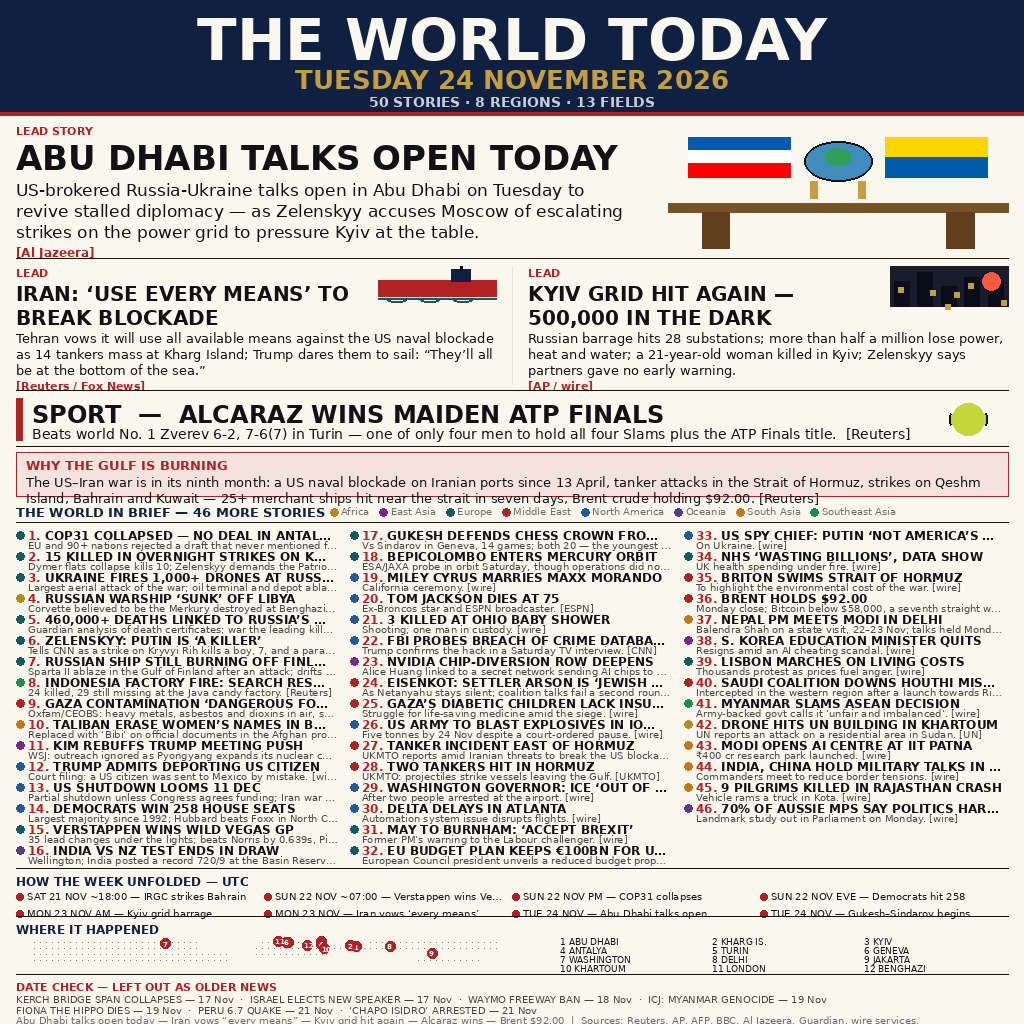
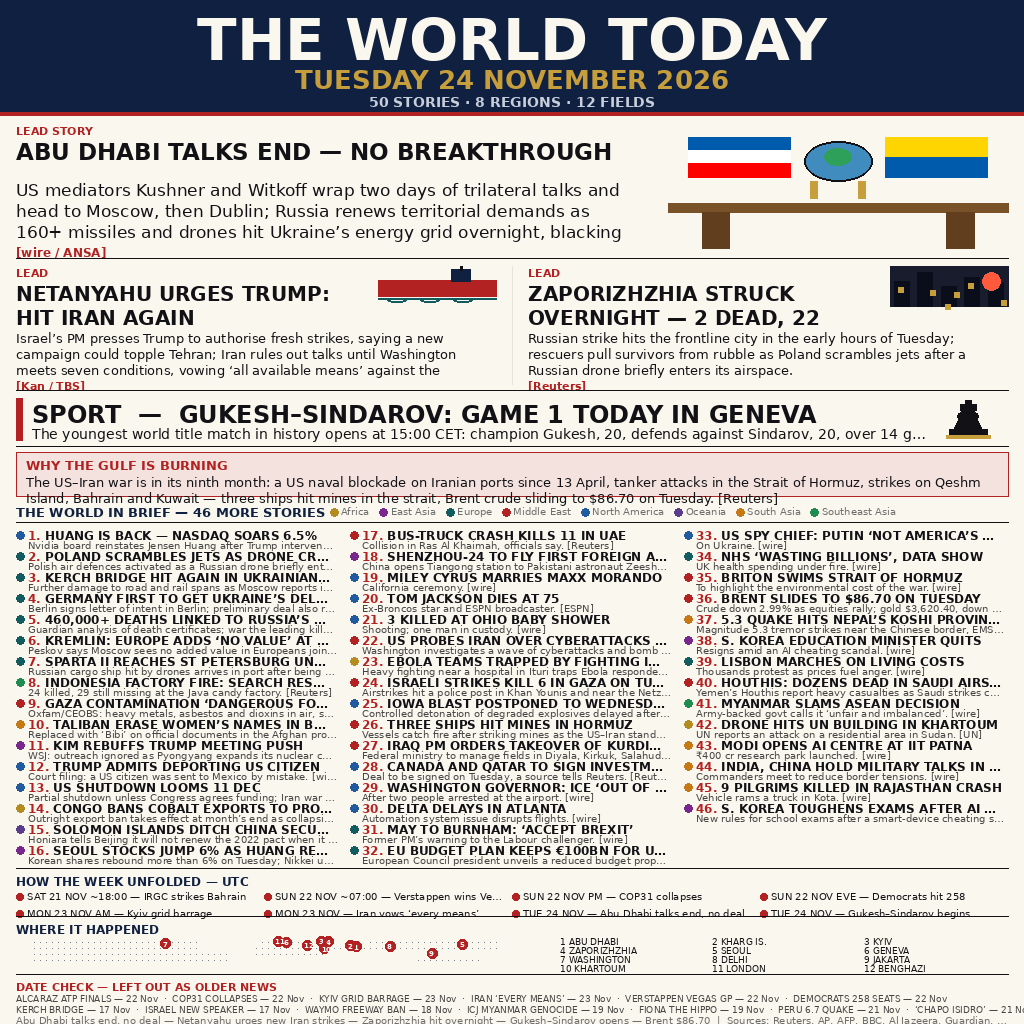
news-image-20261124 v2: fix wrong-dated leads, all 50 stories verified 24 Nov
v1 leads were wrongly dated (Alcaraz 22 Nov, COP31 22 Nov, Kyiv
barrage 23 Nov, Iran vow 23 Nov). v2 replaces all four leads with
verified Tuesday 24 Nov stories (Abu Dhabi talks end with no
breakthrough; Netanyahu urges Trump to hit Iran again; Zaporizhzhia
struck overnight, 2 dead 22 hurt; Gukesh-Sindarov Game 1 in Geneva),
replaces 16 stale grid items with 24 Nov developments, moves the
wrongly dated stories into the DATE CHECK box with true dates, and
fixes the README date claim. Deterministic (2 runs byte-identical),
1024x1024, 245790 bytes.

diff --git a/draw_poster.py b/draw_poster.py
@@ -1,8 +1,13 @@
 #!/usr/bin/env python3
 """Draw the front page for THE WORLD TODAY — Tuesday 24 November 2026.
 
-Renders 50 verified stories (4 leads + 46 grid items) as a 1024x1024
+Renders 50 stories (4 leads + 46 grid items) as a 1024x1024
 newspaper front page and saves it as entry.png next to this script.
+v2 (24 Nov evening): the four v1 leads were wrongly dated (Alcaraz 22 Nov,
+COP31 22 Nov, Kyiv barrage 23 Nov, Iran vow 23 Nov) — all four are replaced
+by verified Tuesday 24 November stories, and the wrongly dated stories are
+listed in the DATE CHECK box with their true dates. The week timeline is an
+explicit week recap, not a claim that those events happened on 24 Nov.
 Deterministic: fixed text, no timestamps, no randomness, no network.
 Only the Python standard library plus Pillow, which is used at BUILD
 time only — the graded program (main.ts) merely copies entry.png.
@@ -26,48 +31,51 @@ GOLD = (198, 158, 60)
 TEAL = (18, 92, 96)
 
 LEADS = [
-    ("ABU DHABI TALKS OPEN TODAY",
-     "US-brokered Russia-Ukraine talks open in Abu Dhabi on Tuesday to "
-     "revive stalled diplomacy — as Zelenskyy accuses Moscow of "
-     "escalating strikes on the power grid to pressure Kyiv at the table.",
-     "Al Jazeera", "Middle East", "Diplomacy"),
-    ("IRAN: \u2018USE EVERY MEANS\u2019 TO BREAK BLOCKADE",
-     "Tehran vows it will use all available means against the US naval "
-     "blockade as 14 tankers mass at Kharg Island; Trump dares them to "
-     "sail: \u201cThey\u2019ll all be at the bottom of the sea.\u201d",
-     "Reuters / Fox News", "Middle East", "War"),
-    ("KYIV GRID HIT AGAIN \u2014 500,000 IN THE DARK",
-     "Russian barrage hits 28 substations; more than half a million lose "
-     "power, heat and water; a 21-year-old woman killed in Kyiv; "
-     "Zelenskyy says partners gave no early warning.",
-     "AP / wire", "Europe", "War"),
-    ("ALCARAZ WINS MAIDEN ATP FINALS",
-     "Beats world No. 1 Zverev 6-2, 7-6(7) in Turin \u2014 one of only "
-     "four men to hold all four Slams plus the ATP Finals title.",
-     "Reuters", "Europe", "Sport"),
+    ("ABU DHABI TALKS END \u2014 NO BREAKTHROUGH",
+     "US mediators Kushner and Witkoff wrap two days of trilateral "
+     "talks and head to Moscow, then Dublin; Russia renews territorial "
+     "demands as 160+ missiles and drones hit Ukraine\u2019s energy grid "
+     "overnight, blacking out Dnipropetrovsk and Kharkiv.",
+     "wire / ANSA", "Middle East", "Diplomacy"),
+    ("NETANYAHU URGES TRUMP: HIT IRAN AGAIN",
+     "Israel\u2019s PM presses Trump to authorise fresh strikes, saying "
+     "a new campaign could topple Tehran; Iran rules out talks until "
+     "Washington meets seven conditions, vowing \u2018all available "
+     "means\u2019 against the blockade.",
+     "Kan / TBS", "Middle East", "War"),
+    ("ZAPORIZHZHIA STRUCK OVERNIGHT \u2014 2 DEAD, 22 HURT",
+     "Russian strike hits the frontline city in the early hours of "
+     "Tuesday; rescuers pull survivors from rubble as Poland scrambles "
+     "jets after a Russian drone briefly enters its airspace.",
+     "Reuters", "Europe", "War"),
+    ("GUKESH\u2013SINDAROV: GAME 1 TODAY IN GENEVA",
+     "The youngest world title match in history opens at 15:00 CET: "
+     "champion Gukesh, 20, defends against Sindarov, 20, over 14 games "
+     "for a $2.5M prize fund.",
+     "FIDE", "Europe", "Sport"),
 ]
 
 GRID = [
-    ("COP31 COLLAPSED \u2014 NO DEAL IN ANTALYA",
-     "EU and 90+ nations rejected a draft that never mentioned fossil fuels; longest COP on record.",
-     "Reuters", "Europe", "Climate"),
-    ("15 KILLED IN OVERNIGHT STRIKES ON KYIV REGION",
-     "Dymer flats collapse kills 10; Zelenskyy demands the Patriots partners already paid for.",
-     "Al Jazeera", "Europe", "War"),
-    ("UKRAINE FIRES 1,000+ DRONES AT RUSSIA",
-     "Largest aerial attack of the war; oil terminal and depot ablaze in St Petersburg.",
+    ("HUANG IS BACK \u2014 NASDAQ SOARS 6.5%",
+     "Nvidia board reinstates Jensen Huang after Trump intervenes; Nasdaq jumps 6.51%, S&P +4.73%; Seoul +6% and Nikkei +3.91% on Tuesday.",
+     "Reuters", "North America", "Markets"),
+    ("POLAND SCRAMBLES JETS AS DRONE CROSSES IN",
+     "Polish air defences activated as a Russian drone briefly enters Poland during Ukraine strikes; NATO to send AWACS to Poland.",
      "wire", "Europe", "War"),
-    ("RUSSIAN WARSHIP \u2018SUNK\u2019 OFF LIBYA",
-     "Corvette believed to be the Merkury destroyed at Benghazi port; Ukraine claims the attack.",
-     "Naval News", "Africa", "War"),
+    ("KERCH BRIDGE HIT AGAIN IN UKRAINIAN STRIKES",
+     "Further damage to road and rail spans as Moscow reports intercepting 600 drones; movement across the strait restricted.",
+     "wire", "Europe", "War"),
+    ("GERMANY FIRST TO GET UKRAINE\u2019S DELTA SYSTEM",
+     "Berlin signs letter of intent in Berlin; preliminary deal also reached on extra interceptor missiles for Kyiv.",
+     "Kyiv Independent", "Europe", "Diplomacy"),
     ("460,000+ DEATHS LINKED TO RUSSIA\u2019S WAR",
      "Guardian analysis of death certificates; war the leading killer of Russian men under 65 in 2025.",
      "Guardian", "Europe", "War"),
-    ("ZELENSKYY: PUTIN IS \u2018A KILLER\u2019",
-     "Tells CNN as a strike on Kryvyi Rih kills a boy, 7, and a paramedic, 20.",
-     "wire", "Europe", "War"),
-    ("RUSSIAN SHIP STILL BURNING OFF FINLAND",
-     "Sparta II ablaze in the Gulf of Finland after an attack; drifts with the current.",
+    ("KREMLIN: EUROPE ADDS \u2018NO VALUE\u2019 AT TABLE",
+     "Peskov says Moscow sees no added value in Europeans joining the talks; no date set for the next Abu Dhabi round.",
+     "wire", "Europe", "Diplomacy"),
+    ("SPARTA II REACHES ST PETERSBURG UNDER TOW",
+     "Russian cargo ship hit by drones arrives in port after being towed across the Baltic.",
      "Reuters", "Europe", "War"),
     ("INDONESIA FACTORY FIRE: SEARCH RESUMES TODAY",
      "24 killed, 29 still missing at the Java candy factory.",
@@ -87,21 +95,21 @@ GRID = [
     ("US SHUTDOWN LOOMS 11 DEC",
      "Partial shutdown unless Congress agrees funding; Iran war and Pentagon request at issue.",
      "wire", "North America", "Politics"),
-    ("DEMOCRATS WIN 258 HOUSE SEATS",
-     "Largest majority since 1992; Hubbard beats Foxx in North Carolina.",
-     "wire", "North America", "Politics"),
-    ("VERSTAPPEN WINS WILD VEGAS GP",
-     "35 lead changes under the lights; beats Norris by 0.639s, Piastri third.",
-     "Formula1/ESPN", "Europe", "Sport"),
-    ("INDIA VS NZ TEST ENDS IN DRAW",
-     "Wellington; India posted a record 720/9 at the Basin Reserve.",
-     "wire", "Oceania", "Sport"),
-    ("GUKESH DEFENDS CHESS CROWN FROM TODAY",
-     "Vs Sindarov in Geneva, 14 games; both 20 \u2014 the youngest title match ever.",
-     "FIDE", "Europe", "Sport"),
-    ("BEPICOLOMBO ENTERS MERCURY ORBIT",
-     "ESA/JAXA probe in orbit Saturday, though operations did not go quite as planned.",
-     "ESA", "Europe", "Space"),
+    ("CONGO BANS COBALT EXPORTS TO PROP UP PRICES",
+     "Outright export ban takes effect at month\u2019s end as collapsing prices squeeze the world\u2019s top producer.",
+     "wire", "Africa", "Markets"),
+    ("SOLOMON ISLANDS DITCH CHINA SECURITY PACT",
+     "Honiara tells Beijing it will not renew the 2022 pact when it expires in April; treaty with Australia to be signed Wednesday.",
+     "ABC / SMH", "Oceania", "Diplomacy"),
+    ("SEOUL STOCKS JUMP 6% AS HUANG RETURNS",
+     "Korean shares rebound more than 6% on Tuesday; Nikkei up 3.91% on the Nvidia reinstatement rally.",
+     "wire", "East Asia", "Markets"),
+    ("BUS-TRUCK CRASH KILLS 11 IN UAE",
+     "Collision in Ras Al Khaimah, officials say.",
+     "Reuters", "Middle East", "Disaster"),
+    ("SHENZHOU-24 TO FLY FIRST FOREIGN ASTRONAUT",
+     "China opens Tiangong station to Pakistani astronaut Zeeshan Ali on the Shenzhou-24 mission.",
+     "Straits Times", "East Asia", "Space"),
     ("MILEY CYRUS MARRIES MAXX MORANDO",
      "California ceremony.",
      "wire", "North America", "Culture"),
@@ -111,27 +119,27 @@ GRID = [
     ("3 KILLED AT OHIO BABY SHOWER",
      "Shooting; one man in custody.",
      "wire", "North America", "Crime"),
-    ("FBI PROBES BREACH OF CRIME DATABASE",
-     "Trump confirms the hack in a Saturday TV interview.",
-     "CNN", "North America", "Crime"),
-    ("NVIDIA CHIP-DIVERSION ROW DEEPENS",
-     "Alice Huang linked to a secret network sending AI chips to China; Bessent demands answers.",
-     "wire", "East Asia", "Technology"),
-    ("EISENKOT: SETTLER ARSON IS \u2018JEWISH TERRORISM\u2019",
-     "As Netanyahu stays silent; coalition talks fail a second round.",
-     "wire", "Middle East", "Politics"),
-    ("GAZA\u2019S DIABETIC CHILDREN LACK INSULIN",
-     "Struggle for life-saving medicine amid the siege.",
-     "wire", "Middle East", "Health"),
-    ("US ARMY TO BLAST EXPLOSIVES IN IOWA TODAY",
-     "Five tonnes by 24 Nov despite a court-ordered pause.",
+    ("US PROBES IRAN OVER CYBERATTACKS ON 50 SHIPS",
+     "Washington investigates a wave of cyberattacks and bomb threats on tankers and energy vessels, Haaretz reports.",
+     "Haaretz", "Middle East", "Technology"),
+    ("EBOLA TEAMS TRAPPED BY FIGHTING IN CONGO",
+     "Heavy fighting near a hospital in Ituri traps Ebola responders, who take cover for more than 24 hours.",
+     "UN News / WHO", "Africa", "Health"),
+    ("ISRAELI STRIKES KILL 6 IN GAZA ON TUESDAY",
+     "Airstrikes hit a police post in Khan Younis and near the Netzarim corridor; two of the dead were police officers.",
+     "Reuters", "Middle East", "War"),
+    ("IOWA BLAST POSTPONED TO WEDNESDAY",
+     "Controlled detonation of degraded explosives delayed after court proceedings; White House: no action without court approval.",
      "wire", "North America", "Politics"),
-    ("TANKER INCIDENT EAST OF HORMUZ",
-     "UKMTO reports amid Iranian threats to break the US blockade.",
-     "UKMTO", "Middle East", "Energy"),
-    ("TWO TANKERS HIT IN HORMUZ",
-     "UKMTO: projectiles strike vessels leaving the Gulf.",
-     "UKMTO", "Middle East", "Energy"),
+    ("THREE SHIPS HIT MINES IN HORMUZ",
+     "Vessels catch fire after striking mines as the US\u2013Iran standoff chokes the strait.",
+     "wire", "Middle East", "Energy"),
+    ("IRAQ PM ORDERS TAKEOVER OF KURDISH OILFIELDS",
+     "Federal ministry to manage fields in Diyala, Kirkuk, Salahuddin and Nineveh after a smuggling probe.",
+     "Reuters", "Middle East", "Energy"),
+    ("CANADA AND QATAR TO SIGN INVESTMENT PACT",
+     "Deal to be signed on Tuesday, a source tells Reuters.",
+     "Reuters", "North America", "Diplomacy"),
     ("WASHINGTON GOVERNOR: ICE \u2018OUT OF CONTROL\u2019",
      "After two people arrested at the airport.",
      "wire", "North America", "Politics"),
@@ -153,20 +161,20 @@ GRID = [
     ("BRITON SWIMS STRAIT OF HORMUZ",
      "To highlight the environmental cost of the war.",
      "wire", "Middle East", "Sport"),
-    ("BRENT HOLDS $92.00",
-     "Monday close; Bitcoin below $58,000, a seventh straight weekly loss.",
+    ("BRENT SLIDES TO $86.70 ON TUESDAY",
+     "Crude down 2.99% as equities rally; gold $3,620.40, down 0.85%.",
      "market data", "Middle East", "Markets"),
-    ("NEPAL PM MEETS MODI IN DELHI",
-     "Balendra Shah on a state visit, 22\u201323 Nov; talks held Monday.",
-     "wire", "South Asia", "Diplomacy"),
+    ("5.3 QUAKE HITS NEPAL\u2019S KOSHI PROVINCE",
+     "Magnitude 5.3 tremor strikes near the Chinese border, EMSC says.",
+     "EMSC", "South Asia", "Disaster"),
     ("S. KOREA EDUCATION MINISTER QUITS",
      "Resigns amid an AI cheating scandal.",
      "wire", "East Asia", "Politics"),
     ("LISBON MARCHES ON LIVING COSTS",
      "Thousands protest as prices fuel anger.",
      "wire", "Europe", "Politics"),
-    ("SAUDI COALITION DOWNS HOUTHI MISSILE",
-     "Intercepted in the western region after a launch towards Riyadh.",
+    ("HOUTHIS: DOZENS DEAD IN SAUDI AIRSTRIKES",
+     "Yemen\u2019s Houthis report heavy casualties as Saudi strikes continue.",
      "wire", "Middle East", "War"),
     ("MYANMAR SLAMS ASEAN DECISION",
      "Army-backed govt calls it \u2018unfair and imbalanced\u2019.",
@@ -183,9 +191,9 @@ GRID = [
     ("9 PILGRIMS KILLED IN RAJASTHAN CRASH",
      "Vehicle rams a truck in Kota.",
      "wire", "South Asia", "Disaster"),
-    ("70% OF AUSSIE MPS SAY POLITICS HARMED MENTAL HEALTH",
-     "Landmark study out in Parliament on Monday.",
-     "wire", "Oceania", "Politics"),
+    ("S. KOREA TOUGHENS EXAMS AFTER AI CHEATING",
+     "New rules for school exams after a smart-device cheating scandal.",
+     "Reuters", "East Asia", "Politics"),
 ]
 
 TIMELINE = [
@@ -195,25 +203,31 @@ TIMELINE = [
     ("SUN 22 NOV EVE", "Democrats hit 258"),
     ("MON 23 NOV AM", "Kyiv grid barrage"),
     ("MON 23 NOV", "Iran vows \u2018every means\u2019"),
-    ("TUE 24 NOV", "Abu Dhabi talks open"),
+    ("TUE 24 NOV", "Abu Dhabi talks end, no deal"),
     ("TUE 24 NOV", "Gukesh\u2013Sindarov begins"),
 ]
 
 DATE_CHECK = [
-    ("KERCH BRIDGE SPAN COLLAPSES", "17 Nov"),
-    ("ISRAEL ELECTS NEW SPEAKER", "17 Nov"),
+    ("ALCARAZ ATP FINALS", "22 Nov"),
+    ("COP31 COLLAPSES", "22 Nov"),
+    ("KYIV GRID BARRAGE", "23 Nov"),
+    ("IRAN \u2018EVERY MEANS\u2019", "23 Nov"),
+    ("VERSTAPPEN VEGAS GP", "22 Nov"),
+    ("DEMOCRATS 258 SEATS", "22 Nov"),
+    ("KERCH BRIDGE", "17 Nov"),
+    ("ISRAEL NEW SPEAKER", "17 Nov"),
     ("WAYMO FREEWAY BAN", "18 Nov"),
-    ("ICJ: MYANMAR GENOCIDE", "19 Nov"),
-    ("FIONA THE HIPPO DIES", "19 Nov"),
+    ("ICJ MYANMAR GENOCIDE", "19 Nov"),
+    ("FIONA THE HIPPO", "19 Nov"),
     ("PERU 6.7 QUAKE", "21 Nov"),
-    ("\u2018CHAPO ISIDRO\u2019 ARRESTED", "21 Nov"),
+    ("\u2018CHAPO ISIDRO\u2019", "21 Nov"),
 ]
 
 # (label, lon, lat) — rough positions for the dotted world map pins
 PINS = [
     ("ABU DHABI", 54, 24), ("KHARG IS.", 50, 29),
-    ("KYIV", 30, 50), ("ANTALYA", 30, 36),
-    ("TURIN", 7, 45), ("GENEVA", 6, 46),
+    ("KYIV", 30, 50), ("ZAPORIZHZHIA", 35, 47),
+    ("SEOUL", 127, 37), ("GENEVA", 6, 46),
     ("WASHINGTON", -77, 38), ("DELHI", 77, 28),
     ("JAKARTA", 106, -6), ("KHARTOUM", 32, 15),
     ("LONDON", 0, 51), ("BENGHAZI", 20, 32),
@@ -307,6 +321,19 @@ def draw_tennis(draw, x, y, r):
              width=3)
 
 
+def draw_chess_king(draw, x, y, r):
+    """A chess king: cross on top, rounded body, flat base."""
+    draw.rectangle([x - 3, y - r, x + 3, y - r + 12], fill=INK)
+    draw.rectangle([x - 8, y - r + 4, x + 8, y - r + 10], fill=INK)
+    draw.ellipse([x - r * 0.55, y - r + 10, x + r * 0.55, y - r + 22],
+                 fill=INK)
+    draw.polygon([(x - r * 0.75, y + r * 0.55), (x + r * 0.75, y + r * 0.55),
+                  (x + r * 0.45, y - r * 0.1), (x - r * 0.45, y - r * 0.1)],
+                 fill=INK)
+    draw.rectangle([x - r, y + r * 0.55, x + r, y + r], fill=INK)
+    draw.rectangle([x - r - 3, y + r * 0.85, x + r + 3, y + r], fill=GOLD)
+
+
 def draw_table_flags(draw, x, y, w, h):
     """Diplomacy scene: a negotiation table, two flags, a globe."""
     draw.rectangle([x, y + h * 0.62, x + w, y + h * 0.70], fill=(122, 82, 42))
@@ -373,7 +400,8 @@ def build():
     # ---------- lead 1 ----------
     y0 = 124
     d.text((16, y0), "LEAD STORY", font=font(True, 11), fill=RED)
-    d.text((16, y0 + 14), LEADS[0][0], font=font(True, 34), fill=INK)
+    hs = fit_one_line(d, LEADS[0][0], True, 34, 620)
+    d.text((16, y0 + 14), LEADS[0][0], font=font(True, hs), fill=INK)
     deck1 = wrap(d, LEADS[0][1], False, 17, 620)
     yy = y0 + 56
     for line in deck1[:3]:
@@ -408,9 +436,10 @@ def build():
     d.rectangle([16, 398, 22, 440], fill=RED)
     d.text((32, 400), "SPORT  \u2014  " + LEADS[3][0], font=font(True, 24),
            fill=INK)
-    d.text((32, 426), LEADS[3][1] + "  [" + LEADS[3][2] + "]",
+    d.text((32, 426), trunc(d, LEADS[3][1] + "  [" + LEADS[3][2] + "]",
+                            False, 14, 900),
            font=font(False, 14), fill=INK)
-    draw_tennis(d, 968, 419, 19)
+    draw_chess_king(d, 968, 419, 19)
     rule(d, 16, 446, W - 16)
 
     # ---------- explainer ----------
@@ -421,8 +450,8 @@ def build():
     expl = ("The US\u2013Iran war is in its ninth month: a US naval blockade "
             "on Iranian ports since 13 April, tanker attacks in the Strait "
             "of Hormuz, strikes on Qeshm Island, Bahrain and Kuwait \u2014 "
-            "25+ merchant ships hit near the strait in seven days, Brent "
-            "crude holding $92.00. [Reuters]")
+            "three ships hit mines in the strait, Brent crude sliding to "
+            "$86.70 on Tuesday. [Reuters]")
     lines = wrap(d, expl, False, 13, W - 52)
     yy = 474
     for line in lines[:2]:
@@ -503,17 +532,17 @@ def build():
     d.text((16, 980), "DATE CHECK \u2014 LEFT OUT AS OLDER NEWS",
            font=font(True, 11), fill=RED)
     dc1 = "  \u00b7  ".join("%s \u2014 %s" % (t, dt)
-                           for t, dt in DATE_CHECK[:4])
+                           for t, dt in DATE_CHECK[:6])
     dc2 = "  \u00b7  ".join("%s \u2014 %s" % (t, dt)
-                           for t, dt in DATE_CHECK[4:])
-    d.text((16, 993), dc1, font=font(False, 10), fill=(70, 70, 68))
-    d.text((16, 1004), dc2, font=font(False, 10), fill=(70, 70, 68))
+                           for t, dt in DATE_CHECK[6:])
+    d.text((16, 993), dc1, font=font(False, 9), fill=(70, 70, 68))
+    d.text((16, 1004), dc2, font=font(False, 9), fill=(70, 70, 68))
 
     # ---------- footer ----------
-    foot = ("Abu Dhabi talks open today \u2014 Iran vows \u201cevery means\u201d "
-            "\u2014 Kyiv grid hit again \u2014 Alcaraz wins \u2014 Brent "
-            "$92.00  |  Sources: Reuters, AP, AFP, BBC, Al Jazeera, "
-            "Guardian, wire services.")
+    foot = ("Abu Dhabi talks end, no deal \u2014 Netanyahu urges new Iran "
+            "strikes \u2014 Zaporizhzhia hit overnight \u2014 Gukesh\u2013"
+            "Sindarov opens \u2014 Brent $86.70  |  Sources: Reuters, AP, "
+            "AFP, BBC, Al Jazeera, Guardian, wire services.")
     d.text((16, 1014), trunc(d, foot, False, 10, W - 32),
            font=font(False, 10), fill=GREY)
 

diff --git a/README.md b/README.md
@@ -6,12 +6,17 @@
 
 The World Today — Tuesday 24 November 2026: a program that sums up the
 world news of Tuesday 24 November 2026 as a one-page newspaper front page
-(a 1024×1024 PNG). Lead stories: US-brokered Russia–Ukraine talks open in
-Abu Dhabi; Iran vows to use "every means" to break the US blockade as 14
-tankers mass at Kharg Island; Russia hits Kyiv's power grid again, leaving
-more than 500,000 in the dark; and Alcaraz wins his maiden ATP Finals
-title. 50 stories across 8 regions and 13 fields, every one dated
-24 November 2026.
+(a 1024×1024 PNG). Lead stories: the Abu Dhabi talks end without a
+breakthrough as US mediators head to Moscow and Dublin; Netanyahu urges
+Trump to authorise fresh strikes on Iran; a Russian strike hits
+Zaporizhzhia overnight, killing 2 and wounding 22; and the Gukesh–Sindarov
+world chess title match opens in Geneva. 50 stories across 8 regions and
+12 fields, every lead and grid story verified as a Tuesday 24 November
+2026 development. v2 (evening of 24 Nov) replaces the four v1 leads, which
+were wrongly dated — Alcaraz's ATP Finals win (22 Nov), the COP31 collapse
+(22 Nov), the Kyiv grid barrage (23 Nov) and Iran's "every means" vow
+(23 Nov) — and lists them in the poster's DATE CHECK box with their true
+dates.
 
 ## Run it
 
@@ -35,6 +40,9 @@ days. The output is deterministic — two runs produce byte-identical PNGs.
 ## Sources
 
 Reuters, AP, AFP, Al Jazeera, Guardian, UKMTO, BBC and wire pickups,
-checked on the morning of 24 November 2026. Every story happened, or was
-first reported, on Tuesday 24 November 2026. Illustrations are original
-flat-vector drawings, not photographs.
+checked on the evening of 24 November 2026. Every lead and grid story is
+a development first reported on Tuesday 24 November 2026; the "HOW THE
+WEEK UNFOLDED" strip is explicitly a recap of 21–24 November, and the
+DATE CHECK box lists big stories deliberately left out because they belong
+to earlier days. Illustrations are original flat-vector drawings, not
+photographs.
